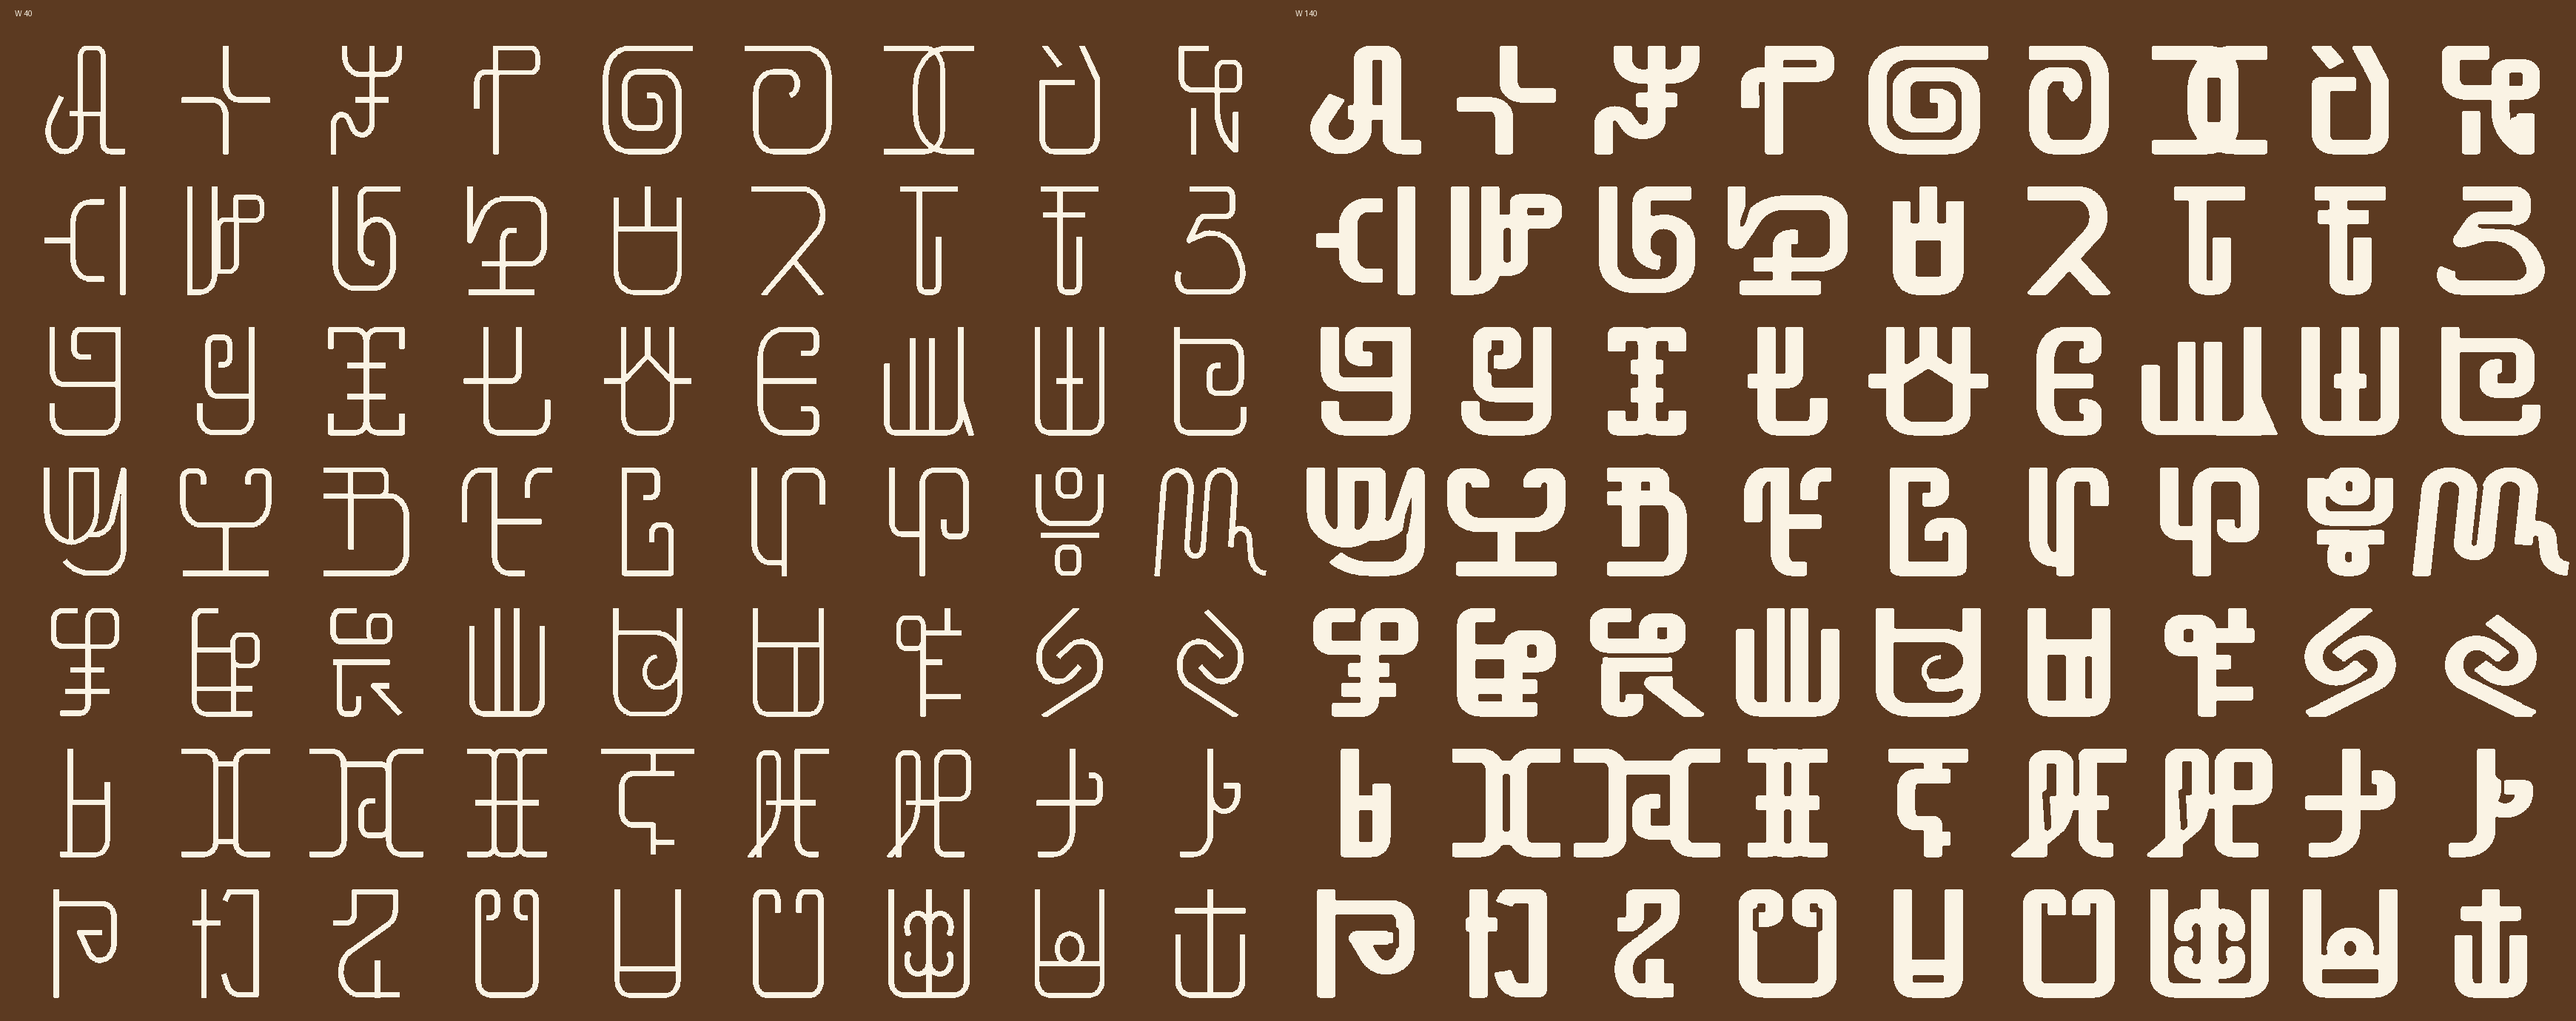
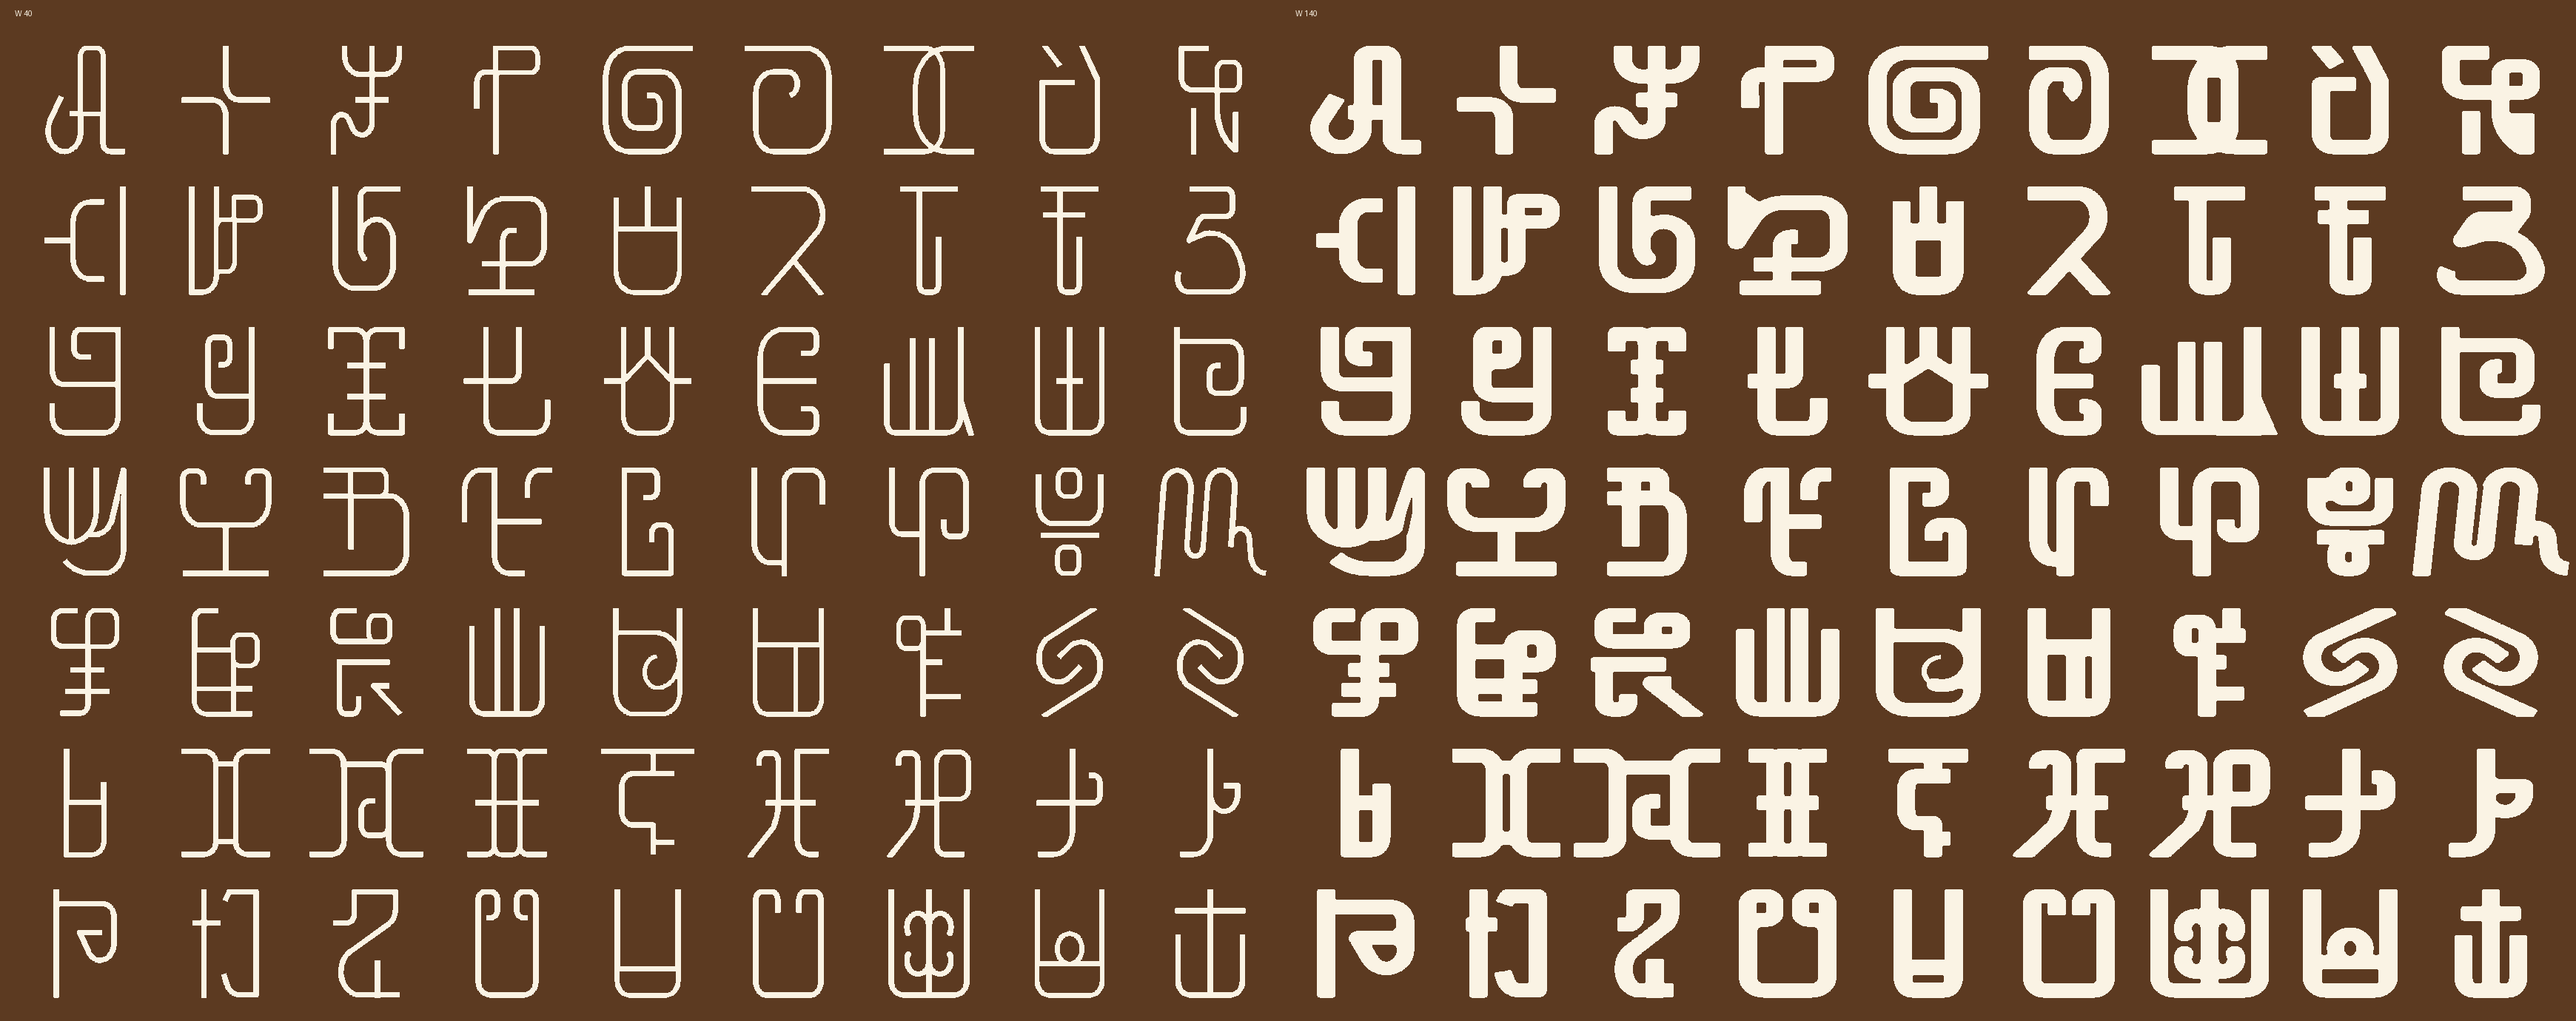
Kɔradin Eyes r12: r11 reverted and redone from the review marks. Hook ends crowding their stem join in Black (re, tɔ, no, nɔ: closed eyes), wedges filled (pe, pɔ, ti), L-corner overshoots trimmed (fi, si), pi branch starts on its stem, se/sɛ hooks drawn from one stroke, fɔ curl full weight; 63/63 to
Claude-Session: https://claude.ai/code/session_01UantNMAVhfM7WEVtYsjyCg

diff --git a/src/eyes2/stretch.py b/src/eyes2/stretch.py
@@ -39,10 +39,13 @@ def _trim_at(Q, end, other, limit):
     """walk in from the end; the first crossing of the other stroke's centreline within `limit` -> cut there"""
     O = LineString(other); R = Q if end == -1 else Q[::-1]; acc = 0.0
     for k in range(len(R) - 1, 0, -1):
-        seg = LineString([R[k - 1], R[k]]); h = seg.intersection(O)
-        if not h.is_empty:
-            g = h if h.geom_type == "Point" else (list(h.geoms)[0] if hasattr(h, "geoms") else h.representative_point())
-            q = np.array(g.coords[0]); out = np.vstack([R[:k], q]); s_ = acc + np.hypot(*(R[k] - q))
+        seg = LineString([R[k - 1], R[k]])
+        if seg.distance(O) < 0.5:                       # crossing (or passing through the other stroke's end point)
+            from shapely.ops import nearest_points
+            h = seg.intersection(O)
+            if not h.is_empty and h.geom_type == "Point": q = np.array(h.coords[0])
+            else: q = np.array(nearest_points(seg, O)[0].coords[0])
+            out = np.vstack([R[:k], q]); s_ = acc + np.hypot(*(R[k] - q))
             if s_ > limit: return None, None
             return out if end == -1 else out[::-1], s_
         acc += seg.length
@@ -56,8 +59,9 @@ def plan(strokes, W=40.0, tol=30.0):
     'cap'  after that, two ends meet in an L corner: each runs on by the other's half weight (square, full corner)"""
     from shapely.ops import unary_union
     Qs = [np.asarray(st["cl"], float) for st in strokes]; ops = {}
+    # an end cut on a body line is one that crosses it; a stroke lying along the baseline has a free end there
     free = lambda i, end: len(Qs[i]) >= 2 and not strokes[i].get("joints", [False, False])[0 if end == 0 else 1] \
-        and not RX._cut_end(strokes[i], end)
+        and not (RX._cut_end(strokes[i], end) and abs(_tan(Qs[i], end)[1]) > 0.2)
     B = [LineString(Q).buffer(W / 2, cap_style=2) if len(Q) > 1 else None for Q in Qs]
     for i in range(len(Qs)):
         for end in (0, -1):
@@ -66,13 +70,15 @@ def plan(strokes, W=40.0, tol=30.0):
             # overshoot
             best = None
             for j in others:
-                q, s_ = _trim_at(Q, end, Qs[j], 1.5 * W)
+                q, s_ = _trim_at(Q, end, Qs[j], 2.5 * W)
+                if q is not None and len(q) >= 2:
+                    at = q[end]; Lcorner = min(np.hypot(*(at - Qs[j][0])), np.hypot(*(at - Qs[j][-1]))) < 0.75 * W
+                    if s_ > (2.5 if Lcorner else 1.5) * W: continue      # past the end of the other stroke: an L corner overshoot, up to 2.5 W
                 if q is not None and s_ > W / 2 + 2 and len(q) >= 2:
                     c = abs(_tan(Q, end) @ _tan(q, end)) if len(q) > 1 else 1
                     if best is None or s_ < best[1]: best = (j, s_)
             if best: ops[(i, end)] = ("trim", best[0]); continue
-            # near miss
-            if st_piece(strokes[i]): continue
+            # near miss (free ends of pieces too: a hook curling back to its own stroke)
             near = B[i].intersection(Point(Q[end]).buffer(W * 0.6))
             d = min((near.distance(B[j]) for j in others), default=1e9)
             if 0 < d < tol:
@@ -93,6 +99,12 @@ def forced(k, strokes, W=40.0):
     ops = {}
     Qs = [np.asarray(st["cl"], float) for st in strokes]
     for f in FORCE.get(k, []):
+        if "stroke" in f:                                  # named end: run on to the stroke its tangent meets
+            i, end = f["stroke"], f["end"]; Qe = Qs[i]
+            hits = [(j, _ray_hit(Qe, end, Qs[j], 400)) for j in range(len(Qs)) if j != i and len(Qs[j]) > 1]
+            hits = [h for h in hits if h[1] is not None]
+            if hits: ops[(i, end)] = ("run", min(hits, key=lambda h: h[1])[0], f.get("w"))
+            continue
         p = np.array([f["x"], 20 + (f["y"] - 20) * 660 / (700 * 1.3 - 40)])
         best = min(((np.hypot(*(Qs[i][end] - p)), i, end) for i in range(len(Qs)) if len(Qs[i]) > 1 for end in (0, -1)
                     if not strokes[i].get("joints", [False, False])[0 if end == 0 else 1]), default=None)
@@ -113,7 +125,8 @@ def st_piece(st): return bool(st.get("piece"))
 def apply(Qs, ops, caps):
     """run / trim on the given centrelines (any weight); caps = (hw, hv) per stroke to also apply the caps"""
     Qs = [Q.copy() for Q in Qs]
-    for key, (op, j) in ops.items():
+    for key, v in ops.items():
+        op, j = v[0], v[1]
         i, end = key[0], key[1]
         if op == "trim":
             q, _ = _trim_at(Qs[i], end, Qs[j], 3.0 * 60)
@@ -130,7 +143,8 @@ def apply(Qs, ops, caps):
             d = _ray_hit(Qs[i], end, Qs[j], 400)
             if d is not None: Qs[i] = _run_on(Qs[i], end, d)
     if caps is not None:
-        for key, (op, j) in ops.items():
+        for key, v in ops.items():
+            op, j = v[0], v[1]
             if op != "cap": continue
             i, end = key[0], key[1]; hw, hv = caps[i]; t = _tan(Qs[i], end)
             Qs[i] = _run_on(Qs[i], end, hw * abs(t[0]) + hv * abs(t[1]))
@@ -150,7 +164,7 @@ for k in D["keys"]:
                 Q[:, 1] = cn * W / 2 + (Q[:, 1] - W / 2) * (H - cn * W) / (700 - W)   # strokes on a body line stay on it
                 Q[:, 1] = np.clip(Q[:, 1], hv, H - hv)     # Kɔradin clips the glyph to its body: a bowl dipping past a body line runs flat along it
             Qs.append(Q); CAP.append((hw, hv))
-        Qs = apply(Qs, OPS, CAP)
+        Qs = apply(Qs, {kk: v[:2] for kk, v in OPS.items() if len(v) < 3 or v[2] in (None, str(int(W)))}, CAP)
         for si, st in enumerate(S):
             Q = Qs[si]
             if len(Q) < 2: continue

diff --git a/src/eyes2/engine.py b/src/eyes2/engine.py
@@ -234,6 +234,7 @@ def _build(strokes, thin, W, Wthin, gap, ro, ri, eye_min=0.55, relax=False, key=
         if not ml.is_empty: cut = ml.buffer(gap / 2, quad_segs=8)
     dropped = None
     if cut is not None and W > Wthin: cut, dropped = clean_cuts(ink, cut, gap, W)
+    ink, cut = owner_marks(key, ink, cut, W, Wthin, gap)
     A = ink.difference(cut) if cut is not None else ink
     # eyes: closed counters without islands -> squircle negative
     eyes = []
@@ -275,6 +276,38 @@ def _build(strokes, thin, W, Wthin, gap, ro, ri, eye_min=0.55, relax=False, key=
     if W > Wthin: A = fill_wedges(A, dropped, W, gap); A = fill_tapers(A, cut, gap) if not os.environ.get("EYES_NOTAPER") else A; A = fill_notches(A, W)
     if W > Wthin: A = finish(A, tink, W, ro)
     return A.buffer(0), dict(cut=cut, eyes=eyes, raw=raw, S=S, S0=S0, lines=lines, skel=lines_w, keep=keep)
+
+OWNER = json.load(open(os.environ["EYES_OWNER"])) if os.environ.get("EYES_OWNER") else {}
+def owner_marks(key, ink, cut, W, Wthin, gap):
+    """the owner's review marks, applied where he drew them (coordinates of the published glyph):
+    join   two strokes crowding each other inside the mark become one: the gap there is dropped, the space between
+           them filled (convex hull of the ink inside the mark); a counter this closes gets an eye like any other
+    crotch a narrow wedge where two strokes converge is filled until it is as wide as the stroke (rounded end)
+    smooth a notch is filled (small closing)"""
+    import body as BODY
+    c = BODY.contrast(W)
+    for m in OWNER.get(key, []):
+        if m.get("w", "black") == "black" and W <= Wthin: continue
+        E = affinity.scale(Point(m["cx"], (BH * c - m["cy"]) / c).buffer(1, quad_segs=24), m["rx"], m["ry"] / c)
+        hit = []
+        if m["op"] in ("join", "nogap") and cut is not None:     # every gap the mark touches goes, whole
+            keep = [b for b in polys(cut) if not b.intersects(E.buffer(gap / 2))]; hit = [b for b in polys(cut) if b.intersects(E.buffer(gap / 2))]
+            cut = unary_union(keep) if keep else None
+        if m["op"] == "join":
+            Z = E.buffer(0.4 * W); ink = ink.union(ink.intersection(Z).convex_hull).buffer(0)
+            Zc = unary_union([E] + [b.buffer(gap / 2) for b in hit]); r = 0.35 * W
+            ink = ink.union(ink.buffer(r, quad_segs=12).buffer(-r, quad_segs=12).intersection(Zc)).buffer(0)
+        elif m["op"] == "nogap" and hit:
+            Zc = unary_union([b.buffer(gap / 2) for b in hit]); r = 0.35 * W
+            ink = ink.union(ink.buffer(r, quad_segs=12).buffer(-r, quad_segs=12).intersection(Zc)).buffer(0)
+        elif m["op"] == "crotch":
+            r = 0.5 * W
+            ink = ink.union(ink.buffer(r, quad_segs=12).buffer(-r, quad_segs=12).intersection(E.buffer(W))).buffer(0)
+            if cut is not None: cut = cut.difference(E); cut = None if cut.is_empty else cut
+        elif m["op"] == "smooth":
+            r = 0.3 * W
+            ink = ink.union(ink.buffer(r, quad_segs=12).buffer(-r, quad_segs=12).intersection(E)).buffer(0)
+    return ink, cut
 
 def fill_notches(A, W, mouth=1.3, area=1.2):
     """a notch that opens on a body line (baseline or top) between two feet of the same part, narrower than
